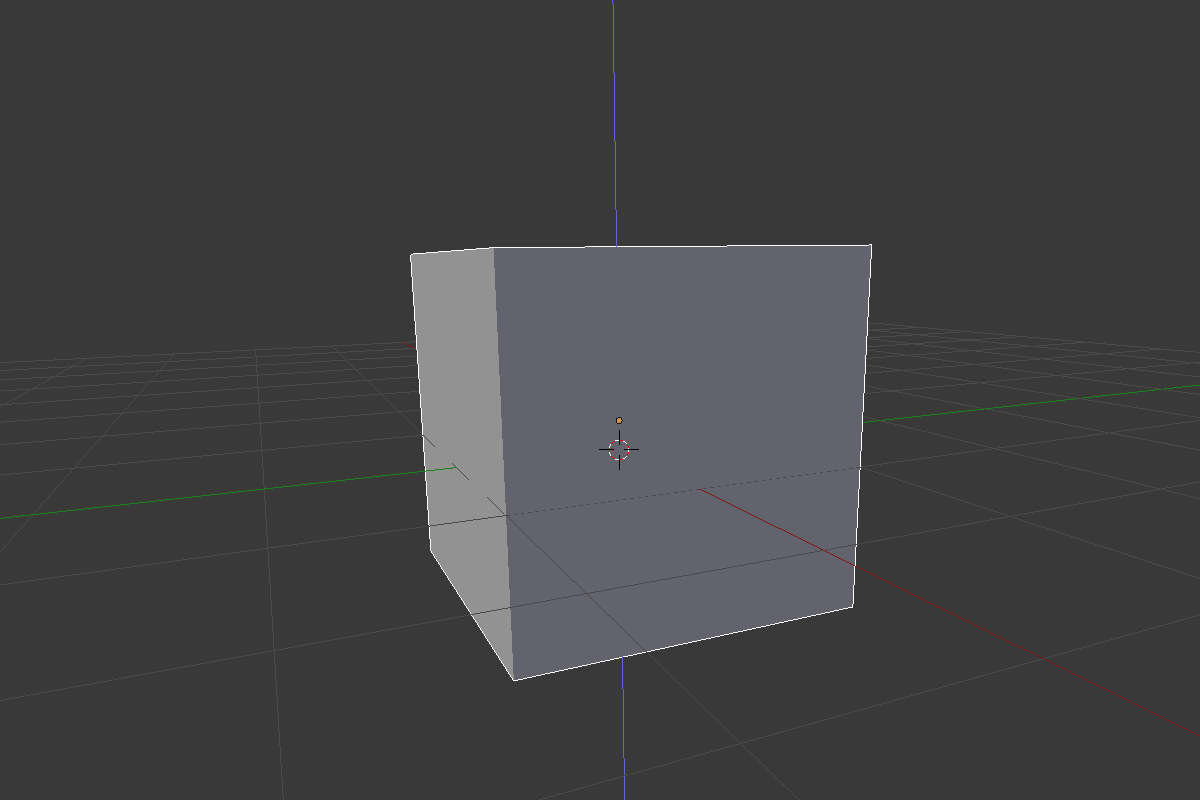
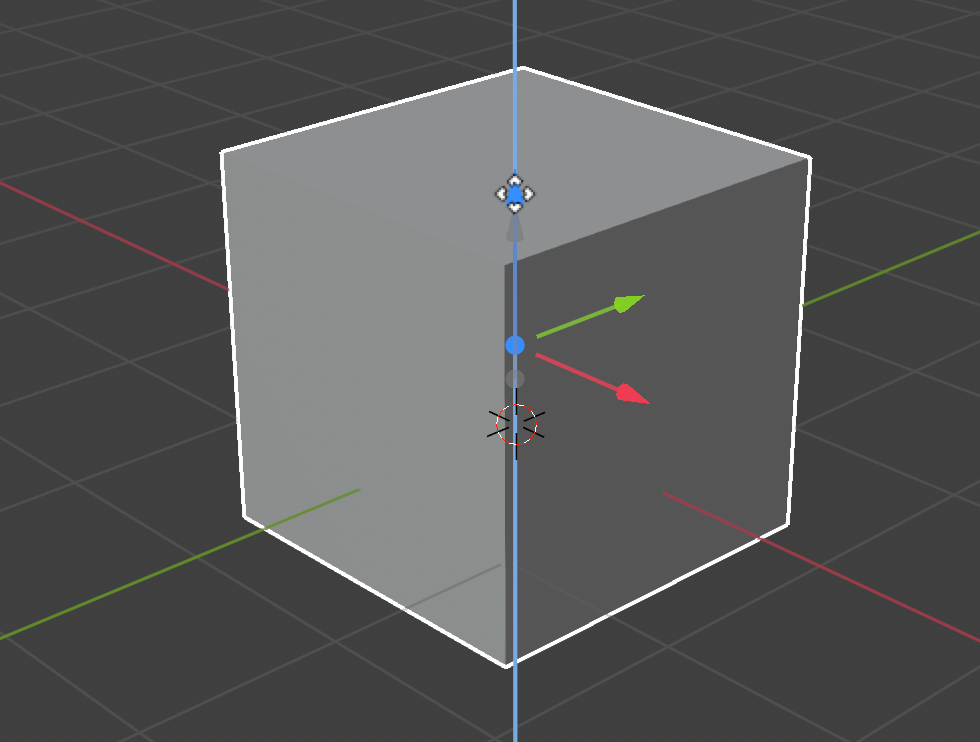
Updates of multiple steps

diff --git a/en/step_3.md b/en/step_3.md
@@ -1,36 +1,38 @@
 ## The 3D scene
 
-In the 3D view you have your 3D scene, which looks a bit like what you might see in a computer game for example.
+The 3D view looks a bit like the environment in a 3D computer game. There are three main components in the 3D scene that you need to understand to get started.
 
-There are three main components in the 3D scene that we need to understand to get started.
+The cube in the centre is the **shape** which will be rendered and shown in the image.
 
-### A cube in the centre
+![A 3d cube shape in the centre of the scene.](images/centre-cube.png)
 
-This is what is going to be rendered and shown in the image.
+The scene has a **light source** which shows where light is shining from. 
 
-![Centre cube](images/centre-cube.png)
+![The light source is represented by a central dot and rings of dashes surrounding it. ](images/light-source.png)
 
-### A light source
+--- task ---
 
-By rotating the scene you can see the exact position of the light source.
+Rotate the scene until you see the top of the light source.
 
-![Light source](images/light-source.png)
+![The scene from the point of view above the light source](images/light-source-top.png)
 
-+ Rotate your scene until you see the top of the light source.
+--- /task ---
 
-![Light source top](images/light-source-top.png)
+The scene has a **camera** which points at the scene.
 
-### A camera
+![The camera is represented by a pyramid drawn with lines for edges.](images/camera.png)
 
-This is from where you will see your scene.
+--- task ---
 
-![Camera](images/camera.png)
+Select `View` > `Cameras` > `Active Camera` to see what the camera sees.
 
-+ Rotate your scene so that it is behind the camera. An easy way to do this is to press `0` in you number pad, or go to `View` > `Cameras` > `Active Cameras`.
-
-![active camera](images/camera-view.png)
-
-![Behind the camera](images/behind-camera.png)
+![Using the menu in Blender to select View > Cameras > Active Camera](images/camera-view.png)
 
 You will see a nice picture of the side of the cube.
+
+![The view you see automatically moves to show you what the camera sees.](images/behind-camera.png)
+
+--- /task ---
+
+
 

diff --git a/en/step_5.md b/en/step_5.md
@@ -1,18 +1,25 @@
 ## Selecting and moving
 
-To select an object in Blender, use the left mouse button.
+--- task ---
+Click the cube with the left mouse button to select it. You'll see an orange border around the cube.
+--- /task ---
 
-+ Select the cube with the left mouse button. You'll see an orange border around the cube.
+--- task ---
+Click on **Move** in the toolbar.
 
-In Blender you can move objects by using the blue, green, and red handles: The blue handle to go up and down on the z-axis, the green handle to go left and right on the y-axis, and the red handle to go in and out on the x-axis. From Blender 2.8, you will need to click on the move gizmo from the list of icons on the left of your screen to make the handles appear.
+![Move is a button on the task bar represented by arrows pointing up, down, left and right](images/move.png)
+--- /task ---
 
-![Move gizmo](images/move-gizmo.png)
+Blue, green and red arrows will appear.
 
-![Coloured handles](images/coloured-handles.png)
+![Blue arrow pointing upwards, green arrow pointing 90 degrees to it, and a red arrow pointing 90 degrees from that, so that all three dimensions are represented.](images/handles.png)
 
-+ Move the cube up by pressing the blue handle with the left mouse button and moving it up. When you press the blue handle, you'll see a blue line appear. Move the cube along the blue line.
+--- task ---
+Click on the blue arrow with the left mouse button. With the button still held down, move the mouse upwards along the blue line to move the cube.
 
 ![Move up](images/move-up.png)
+
+--- /task ---
 
 + Move the cube to the right by pressing the green handle with the left mouse button and moving it to the right. When you press the green handle, you'll see a green line appear. Move the cube along the green line.
 

diff --git a/en/step_2.md b/en/step_2.md
@@ -1,11 +1,12 @@
 ## Zooming and rotating
 
---- task ---
+
 Open Blender and you will see a screen which looks similar this:
 
 ![Splash screen for Blender 4.3.2 with various options](images/splash-screen.png)
 
-Click somewhere outside of this screen to make it disappear.
+--- task ---
+Click somewhere outside of this box to close it.
 --- /task --- 
 
 In the centre, you'll see the 3D view which is where you put all the items that need to be displayed or rendered. 
@@ -13,14 +14,14 @@ In the centre, you'll see the 3D view which is where you put all the items that 
 ![3D view containing a cube, a camera and a light source](images/3d-view.png)
 
 --- task ---
-Scroll the mouse wheel forwards and backwards to zoom in and out on the cube. Or, on a laptop or tablet, use two fingers to pinch and zoom. 
+Scroll the mouse wheel forwards and backwards to zoom in and out on the cube. On a laptop, use two fingers on the mousepad to pinch and zoom. 
 
 ![A cube but a slightly more zoomed out version than the previous image](images/zoom-in-out.png)
 
 --- /task ---
 
 --- task ---
-Press the middle mouse button/mouse wheel and move the mouse to rotate the scene. Or, on a laptop or tablet, use two fingers to rotate the scene.
+Press the middle mouse button/mouse wheel and move the mouse to rotate the scene. On a laptop, use two fingers on the mousepad to rotate the scene.
 
 ![The same cube but the angle you are looking at it has changed as the scene has been rotated.](images/rotate-scene.png)
 

diff --git a/en/step_4.md b/en/step_4.md
@@ -1,11 +1,16 @@
 ## Rendering
 
-Rendering is the process of generating an image from a 3D model.
+**Rendering** is the process of generating an image from a 3D model.
 
-+ Render the scene by pressing <kbd>F12</kbd>. If you're working on a Mac, press <kbd>FN + F12</kbd>.
+--- task ---
+Render the scene by pressing <kbd>F12</kbd> (Windows) or <kbd>Fn + F12</kbd> (Mac).
+--- /task ---
 
-![Rendered image](images/render.png)
+
+![The finished image which is output, consisting of a 3d image of a cube with dark and lighter shading to show where light is coming from.](images/render.png)
 
 You can see that the top and right side of the cube are lit, but the left side is dark. That's because the light source is on the top right side of the cube.
 
-+ Press <kbd>ESC</kbd> to get out of the render view.
+--- task ---
+Press <kbd>Esc</kbd> to get out of the render view.
+--- /task ---
